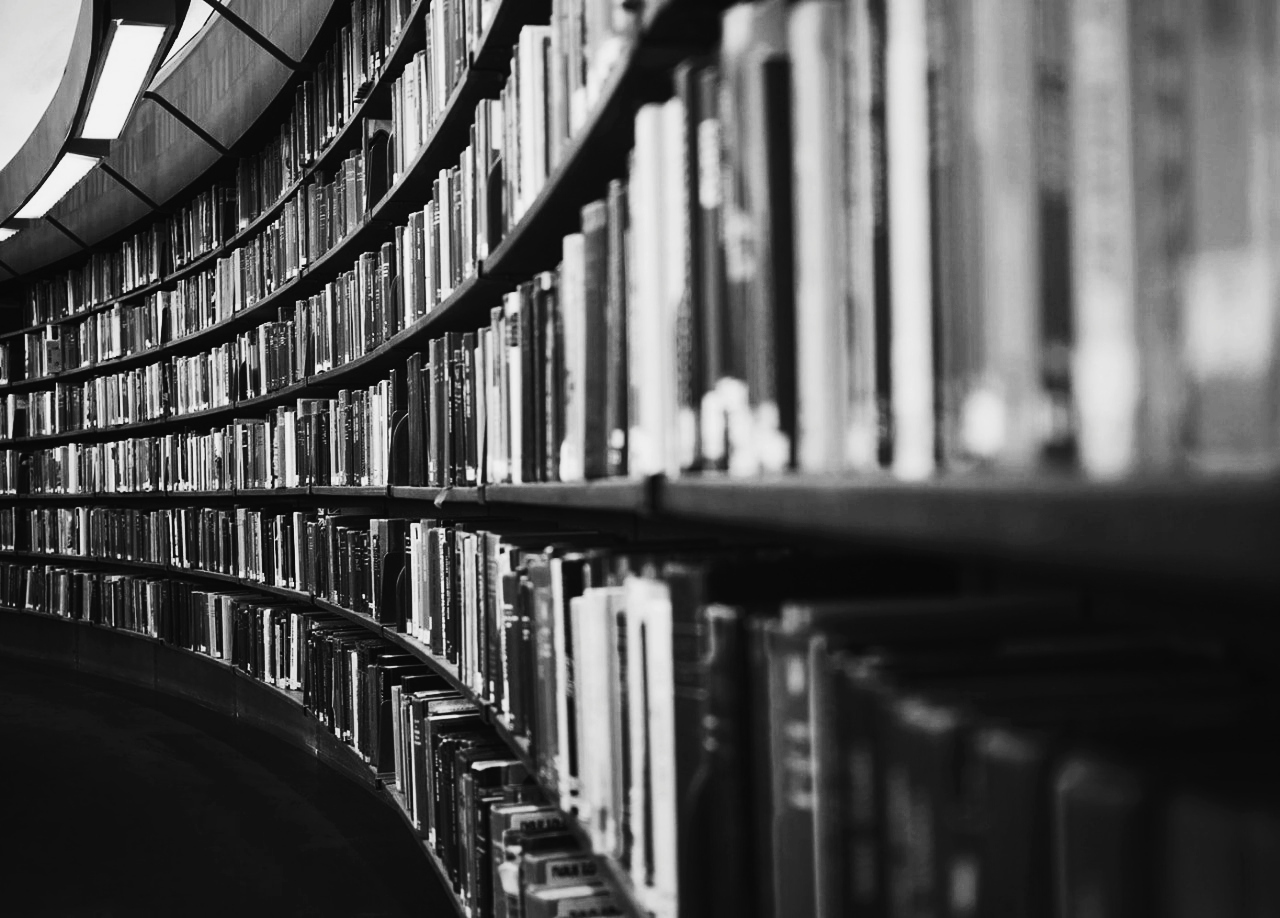
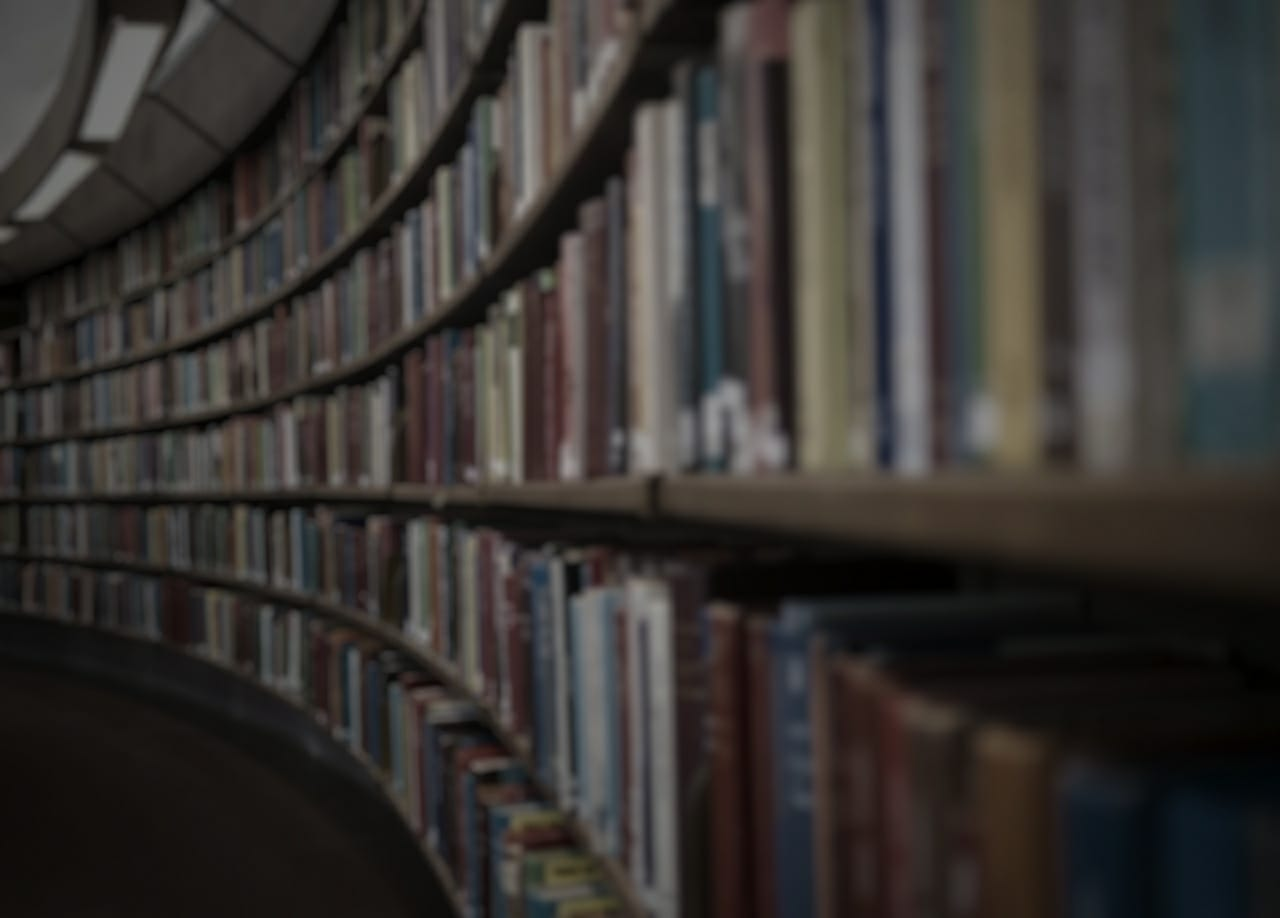
Definição da página de login e início da Home.

diff --git a/Implementacao/Cadastro_Login/loginstyle.css b/Implementacao/Cadastro_Login/loginstyle.css
@@ -1,7 +1,7 @@
 body /* estilização do corpo do site como um todo */
     { 
                 margin: 0; /* sem bordas no corpo do site */
-                background-color: rgba(17, 17, 17, 0.8);
+                background-image: url("backgroundlogin.jpg"); /* imagem de fundo da tela de cadastro */ 
     }
 
 #menu /* Estilização da parte exterior do menu superior */
@@ -50,14 +50,14 @@ body /* estilização do corpo do site como um todo */
 .slogan #titulo
     {
         font-size: 50px;
-        color: rgb(231, 231, 231);
+        color: rgb(255, 255, 255);
          
     }
 
 .slogan #subtitulo
     {
         font-size: 23px;
-        color: rgb(14, 14, 14);
+        color: rgb(199, 199, 199);
         display: block;
         
         

diff --git a/Implementacao/Home/Home_View.html b/Implementacao/Home/Home_View.html
@@ -7,13 +7,17 @@
   </head>
 
     <body>
-     
-    <div id="menu">
+        <input type="checkbox" id="chec">
+          <label for="chec">
+            <img src="imagemenu.png">
+          </label>
+    <nav>
           <ul> 
-            <li><a href = >Sair</a></li> 
-            <li><a href = >Perfil</a></li>  
+            <li><a href = >Perfil</a></li> 
+            <li><a href = >Livros Salvos</a></li>
+            <li><a href = >Sair</a></li>
           </ul>
-        </div>
+    </nav>
     
     </body>
 

diff --git a/Implementacao/Cadastro_Login/cadastrostyle.css b/Implementacao/Cadastro_Login/cadastrostyle.css
@@ -1,7 +1,6 @@
 body /* estilização do corpo do site como um todo */
     { 
-        background-image: url("backgroundcadastro.png"); /* imagem de fundo da tela de cadastro */
-        
+        background-image: url("backgroundcadastro.png"); /* imagem de fundo da tela de cadastro */       
         background-size: 100% 100%  /* função que preenche a imagem por toda a tela */
     }
 
